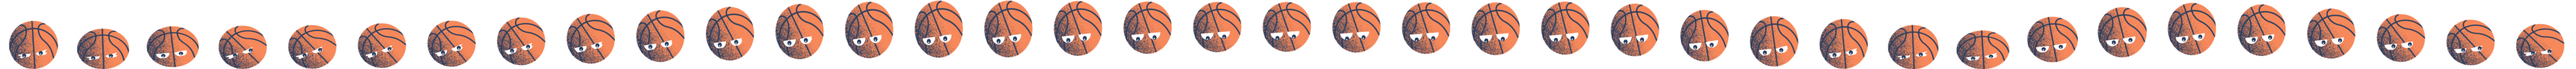
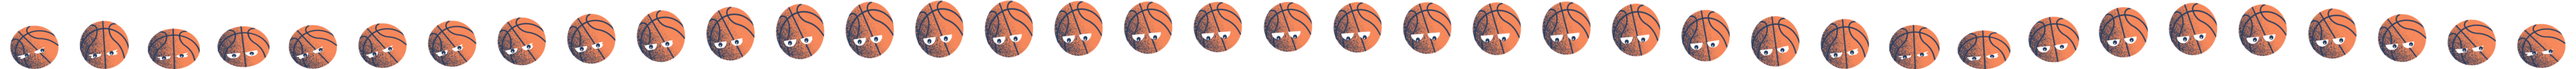
Мяч тоже обречен

Changed region(s): [[0.0, 0.025, 1.0, 1.0]]

diff --git a/assets/styles/game.min.css b/assets/styles/game.min.css
@@ -1,1 +1,1 @@
-#drawingPlot{position:fixed;width:100%;height:100%}@-webkit-keyframes play{from{background-position:5px}to{background-position:-2875px}}@keyframes play{from{background-position:5px}to{background-position:-2875px}}@-webkit-keyframes play-balet{from{background-position:0}to{background-position:-9000px}}@keyframes play-balet{from{background-position:0}to{background-position:-9000px}}@-webkit-keyframes play-pigeon{from{background-position:0}to{background-position:-4680px}}@keyframes play-pigeon{from{background-position:0}to{background-position:-4680px}}@-webkit-keyframes play-horse{from{background-position:0}to{background-position:-3600px}}@keyframes play-horse{from{background-position:0}to{background-position:-3600px}}@-webkit-keyframes play-ball{from{background-position:0}to{background-position:-4440px}}@keyframes play-ball{from{background-position:0}to{background-position:-4440px}}@-webkit-keyframes play-house{from{background-position:0}to{background-position:-3600px}}@keyframes play-house{from{background-position:0}to{background-position:-3600px}}@-webkit-keyframes play-heart{from{background-position:0}to{background-position:-960px}}@keyframes play-heart{from{background-position:0}to{background-position:-960px}}@-webkit-keyframes play-rat{from{background-position:0}to{background-position:-2880px}}@keyframes play-rat{from{background-position:0}to{background-position:-2880px}}@-webkit-keyframes play-pizza{from{background-position:0}to{background-position:-6600px}}@keyframes play-pizza{from{background-position:0}to{background-position:-6600px}}@-webkit-keyframes play-fox{from{background-position:0}to{background-position:-4440px}}@keyframes play-fox{from{background-position:0}to{background-position:-4440px}}@-webkit-keyframes play-nik{from{background-position:0}to{background-position:-960px}}@keyframes play-nik{from{background-position:0}to{background-position:-960px}}@-webkit-keyframes play-cat{from{background-position:0}to{background-position:-720px}}@keyframes play-cat{from{background-position:0}to{background-position:-720px}}@keyframes play-flower{from{background-position:0}to{background-position:-1801px}}.obstacle{position:fixed;border-radius:50%;pointer-events:none}.ball{pointer-events:all;position:fixed;background-repeat:no-repeat}.ball .bounds{border-radius:50%;width:100%;height:100%;z-index:-1;box-sizing:border-box;position:absolute}.ball.dragged{z-index:9999}.ball.selected{z-index:9998;-webkit-transition:0.6s ease-in-out;transition:0.6s ease-in-out}.ball.selected.dragged{-webkit-transition:none;transition:none}.ball.selected .bounds{border:none}.ball.pinkbird{background-image:url("../images/mascots/pinkbird_120x120.png");-webkit-animation:play 0.8s steps(24) infinite;animation:play 0.8s steps(24) infinite}.ball.balet{background-image:url("../images/mascots/balet_120x120.png");-webkit-animation:play-balet 2s steps(50) infinite;animation:play-balet 2s steps(50) infinite}.ball.pigeon{background-image:url("../images/mascots/pigeon_120x120.png");-webkit-animation:play-pigeon 3s steps(39) infinite;animation:play-pigeon 3s steps(39) infinite}.ball.horse{background-image:url("../images/mascots/horse_120x120.png");-webkit-animation:play-horse 1.2s steps(30) infinite;animation:play-horse 1.2s steps(30) infinite}.ball.livingBall{background-image:url("../images/mascots/livingBall_120x120.png");-webkit-animation:play-ball 1s steps(37) infinite;animation:play-ball 1s steps(37) infinite}.ball.house{background-image:url("../images/mascots/house_120x120.png");-webkit-animation:play-house 1s steps(30) infinite;animation:play-house 1s steps(30) infinite}.ball.heart{background-image:url("../images/mascots/heart_120x120.png");-webkit-animation:play-heart 1s steps(8) infinite;animation:play-heart 1s steps(8) infinite}.ball.rat{background-image:url("../images/mascots/rat_120x120.png");-webkit-animation:play-rat 1s steps(24) infinite;animation:play-rat 1s steps(24) infinite}.ball.pizza{background-image:url("../images/mascots/pizza_120x120.png");-webkit-animation:play-pizza 2s steps(55) infinite;animation:play-pizza 2s steps(55) infinite}.ball.fox{background-image:url("../images/mascots/fox_120x120.png");-webkit-animation:play-fox 2s steps(37) infinite;animation:play-fox 2s steps(37) infinite}.ball.nik{background-image:url("../images/mascots/nik_120x120.png");-webkit-animation:play-nik 2s steps(8) infinite;animation:play-nik 2s steps(8) infinite}.ball.cat{background-image:url("../images/mascots/cat_120x120.png");-webkit-animation:play-cat 2s steps(6) infinite;animation:play-cat 2s steps(6) infinite}.ball.flower{background-image:url("../images/mascots/flower_120x120.png");-webkit-animation:play-flower 2s steps(15) infinite;animation:play-flower 2s steps(15) infinite}#mouseSpeed{position:fixed;left:50%;top:50%;margin-left:-150px;margin-top:-150px}
+#drawingPlot{position:fixed;width:100%;height:100%}@-webkit-keyframes play{from{background-position:5px}to{background-position:-2875px}}@keyframes play{from{background-position:5px}to{background-position:-2875px}}@-webkit-keyframes play-balet{from{background-position:0}to{background-position:-9000px}}@keyframes play-balet{from{background-position:0}to{background-position:-9000px}}@-webkit-keyframes play-pigeon{from{background-position:0}to{background-position:-4680px}}@keyframes play-pigeon{from{background-position:0}to{background-position:-4680px}}@-webkit-keyframes play-horse{from{background-position:0}to{background-position:-3600px}}@keyframes play-horse{from{background-position:0}to{background-position:-3600px}}@-webkit-keyframes play-ball{from{background-position:0}to{background-position:-4441px}}@keyframes play-ball{from{background-position:0}to{background-position:-4441px}}@-webkit-keyframes play-house{from{background-position:0}to{background-position:-3600px}}@keyframes play-house{from{background-position:0}to{background-position:-3600px}}@-webkit-keyframes play-heart{from{background-position:0}to{background-position:-960px}}@keyframes play-heart{from{background-position:0}to{background-position:-960px}}@-webkit-keyframes play-rat{from{background-position:0}to{background-position:-2880px}}@keyframes play-rat{from{background-position:0}to{background-position:-2880px}}@-webkit-keyframes play-pizza{from{background-position:0}to{background-position:-6600px}}@keyframes play-pizza{from{background-position:0}to{background-position:-6600px}}@-webkit-keyframes play-fox{from{background-position:0}to{background-position:-4440px}}@keyframes play-fox{from{background-position:0}to{background-position:-4440px}}@-webkit-keyframes play-nik{from{background-position:0}to{background-position:-960px}}@keyframes play-nik{from{background-position:0}to{background-position:-960px}}@-webkit-keyframes play-cat{from{background-position:0}to{background-position:-720px}}@keyframes play-cat{from{background-position:0}to{background-position:-720px}}@keyframes play-flower{from{background-position:0}to{background-position:-1801px}}.obstacle{position:fixed;border-radius:50%;pointer-events:none}.ball{pointer-events:all;position:fixed;background-repeat:no-repeat}.ball .bounds{border-radius:50%;width:100%;height:100%;z-index:-1;box-sizing:border-box;position:absolute}.ball.dragged{z-index:9999}.ball.selected{z-index:9998;-webkit-transition:0.6s ease-in-out;transition:0.6s ease-in-out}.ball.selected.dragged{-webkit-transition:none;transition:none}.ball.selected .bounds{border:none}.ball.pinkbird{background-image:url("../images/mascots/pinkbird_120x120.png");-webkit-animation:play 0.8s steps(24) infinite;animation:play 0.8s steps(24) infinite}.ball.balet{background-image:url("../images/mascots/balet_120x120.png");-webkit-animation:play-balet 2s steps(50) infinite;animation:play-balet 2s steps(50) infinite}.ball.pigeon{background-image:url("../images/mascots/pigeon_120x120.png");-webkit-animation:play-pigeon 3s steps(39) infinite;animation:play-pigeon 3s steps(39) infinite}.ball.horse{background-image:url("../images/mascots/horse_120x120.png");-webkit-animation:play-horse 1.2s steps(30) infinite;animation:play-horse 1.2s steps(30) infinite}.ball.livingBall{background-image:url("../images/mascots/livingBall_120x120.png");-webkit-animation:play-ball 10s steps(37) infinite;animation:play-ball 10s steps(37) infinite}.ball.house{background-image:url("../images/mascots/house_120x120.png");-webkit-animation:play-house 1s steps(30) infinite;animation:play-house 1s steps(30) infinite}.ball.heart{background-image:url("../images/mascots/heart_120x120.png");-webkit-animation:play-heart 1s steps(8) infinite;animation:play-heart 1s steps(8) infinite}.ball.rat{background-image:url("../images/mascots/rat_120x120.png");-webkit-animation:play-rat 1s steps(24) infinite;animation:play-rat 1s steps(24) infinite}.ball.pizza{background-image:url("../images/mascots/pizza_120x120.png");-webkit-animation:play-pizza 2s steps(55) infinite;animation:play-pizza 2s steps(55) infinite}.ball.fox{background-image:url("../images/mascots/fox_120x120.png");-webkit-animation:play-fox 2s steps(37) infinite;animation:play-fox 2s steps(37) infinite}.ball.nik{background-image:url("../images/mascots/nik_120x120.png");-webkit-animation:play-nik 2s steps(8) infinite;animation:play-nik 2s steps(8) infinite}.ball.cat{background-image:url("../images/mascots/cat_120x120.png");-webkit-animation:play-cat 2s steps(6) infinite;animation:play-cat 2s steps(6) infinite}.ball.flower{background-image:url("../images/mascots/flower_120x120.png");-webkit-animation:play-flower 2s steps(15) infinite;animation:play-flower 2s steps(15) infinite}#mouseSpeed{position:fixed;left:50%;top:50%;margin-left:-150px;margin-top:-150px}

diff --git a/assets/styles/game.scss b/assets/styles/game.scss
@@ -92,7 +92,7 @@
     }
 
     to {
-        background-position: -4440px;
+        background-position: -4441px;
     }
 }
 @keyframes play-ball {
@@ -101,7 +101,7 @@
     }
 
     to {
-        background-position: -4440px;
+        background-position: -4441px;
     }
 }
 @-webkit-keyframes play-house {
@@ -320,8 +320,8 @@
 
 .ball.livingBall {
     background-image: url("../images/mascots/livingBall_120x120.png");
-    -webkit-animation: play-ball 1s steps(37) infinite;
-            animation: play-ball 1s steps(37) infinite;
+    -webkit-animation: play-ball 10s steps(37) infinite;
+            animation: play-ball 10s steps(37) infinite;
 }
 
 .ball.house {
